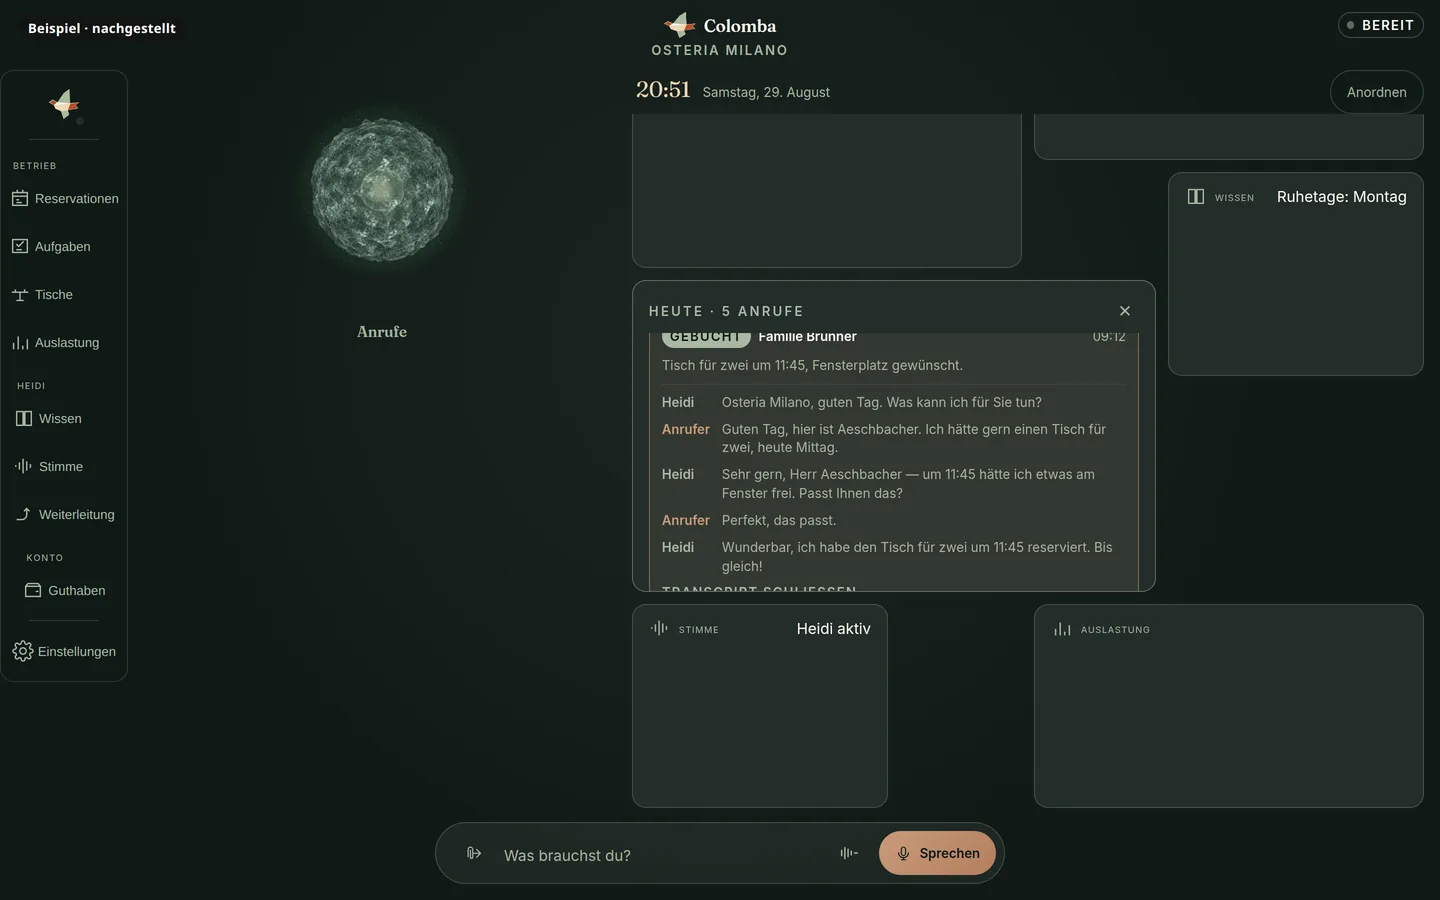
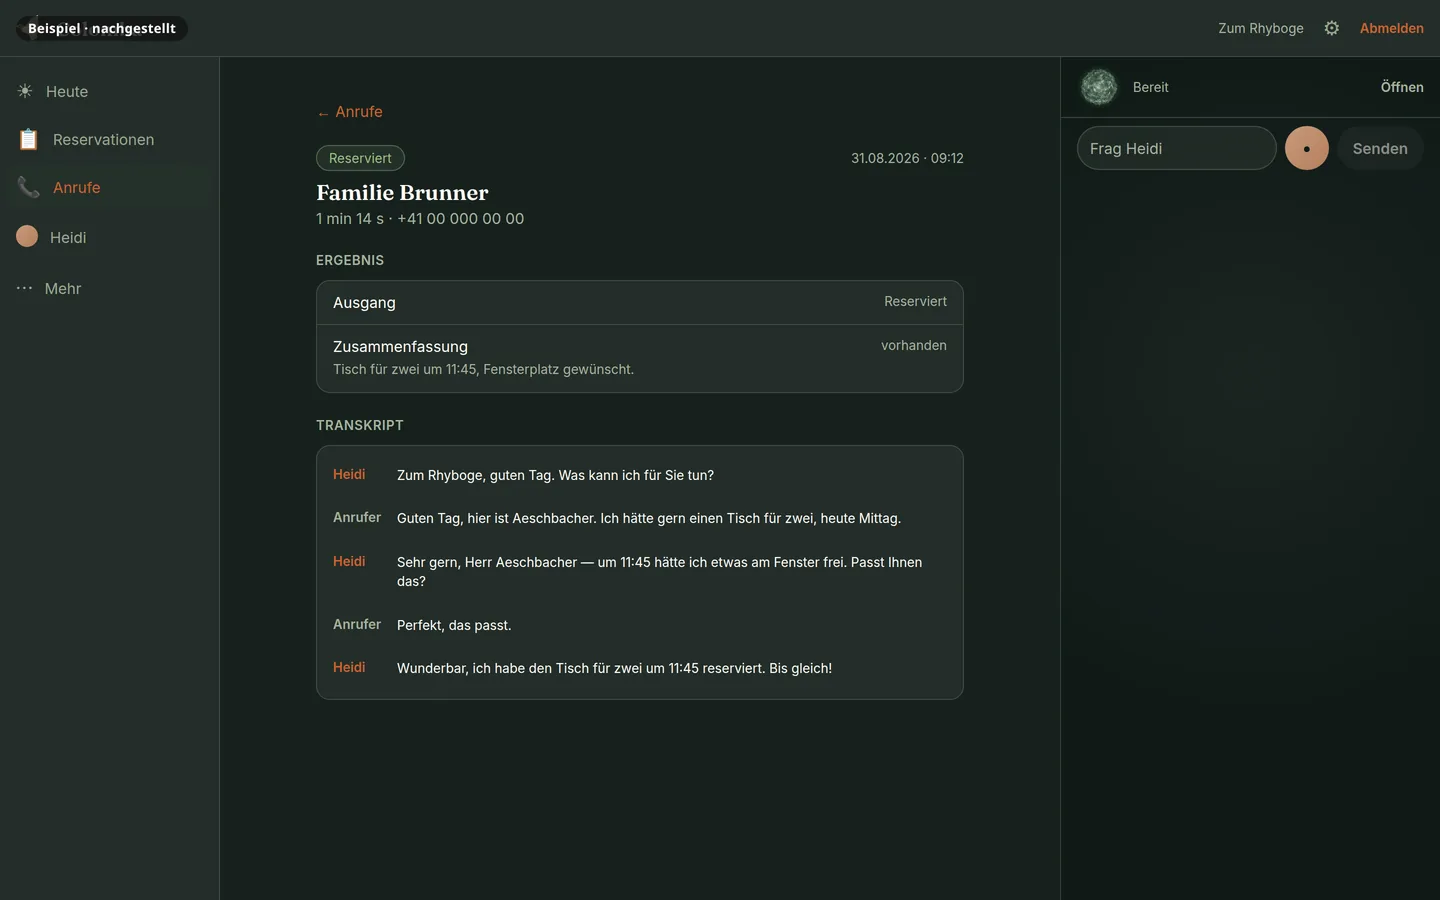
staging: WEBSITE-FLUG-V1.2 — Papier-Hero (01-aufbruch.jpg), Beispielbetrieb -> Zum Rhyboge, S1/S3/S4 neu aufgenommen, zwei Polierstellen
- Papier-Hero (Kapitel 01) vollbreit, Verlauf ins --forest (kein harter Rand), Karte
  unten links mit Notch; Orb + Status-Chip nach Kapitel 02 verschoben (kompakt).
- Beispielbetrieb-Name durchgängig auf 'Zum Rhyboge' (RHYBOGE-SWISS-RENAME-1,
  agent/DECISIONS.md 2026-08-26) — index.html + qa/design/web-marketing-1 Fixtures.
- S1 (Heute), S3 (Anrufe/Transkript) neu aufgenommen gegen den AKTUELLEN apps/web-Stand
  (die alte Rig zielte auf eine inzwischen entfernte /voice-Orb-Seite). S4 'Woche' hat
  im aktuellen Build kein Gegenstück mehr (BuchungenPage.tsx hat nur einen Tag-Filter,
  keine Woche) -> ersetzt durch S4 'Buchungen' (die vierte, bislang unbebilderte
  Rail-Tab-Ansicht aus derselben Kopie).
- Polierstellen: Tiefen-Band-Kanten jetzt Verlauf (~80px) statt harter Naht;
  .call-shot 380px -> 460px.
- Fusszeile: 'Bildwelt teilweise KI-generiert' aktiv.

Kein Live-Deploy, kein ARM-Bypass. datenschutz.html/impressum.html nicht angefasst.

diff --git a/index.html b/index.html
@@ -147,6 +147,39 @@ header.site {
 /* Die padding-Kurzform hat die seitliche Polsterung von .wrap überschrieben —
    auf 390 px klebte der Hero am linken Rand, während der Kopf eingerückt war.
    Vorbestehend, hier mitgenommen. */
+/* ------------------------------------------------------------ paper hero */
+/* Full-bleed opener (WEBSITE-FLUG-V1.2) — Romans Bild «Der Flug», Kapitel 01.
+   Kein harter Rand: das Bild löst sich über einen Verlauf in --forest auf, nie eine
+   Textur- oder Hard-Cut-Kante. Die Karte unten links liegt frei über dem Bild. */
+.paper-hero { position: relative; overflow: hidden; }
+.paper-hero picture, .paper-hero img {
+  display: block; width: 100%; height: clamp(320px, 62vh, 720px); object-fit: cover;
+}
+.paper-hero::after {
+  content: ""; position: absolute; left: 0; right: 0; bottom: 0; height: 40%;
+  background: linear-gradient(to bottom, rgba(28,43,38,0) 0%, var(--forest) 92%);
+  pointer-events: none;
+}
+.paper-hero-card {
+  --cut: 14px;
+  position: absolute; left: var(--pad-x); bottom: clamp(20px, 4vh, 40px);
+  max-width: 420px; background: var(--forest-2); border: 1px solid var(--hairline);
+  padding: 20px 22px; z-index: 2;
+}
+.paper-hero-card .eyebrow { margin-bottom: 10px; }
+.paper-hero-card h2 {
+  font-family: var(--serif); font-weight: 600; font-size: clamp(1.3rem, 2.6vw, 1.7rem);
+  line-height: 1.25; letter-spacing: -.01em; margin: 0 0 10px; color: var(--cream);
+}
+.paper-hero-card p { margin: 0; color: var(--text); font-size: 15px; line-height: 1.55; }
+@media (max-width: 880px) {
+  .paper-hero picture, .paper-hero img { height: 46vh; min-height: 240px; }
+  .paper-hero-card {
+    position: static; max-width: none; margin: 0; border-top: none;
+  }
+  .paper-hero::after { display: none; }
+}
+
 .hero { padding: clamp(24px, 6vh, 72px) var(--pad-x) clamp(40px, 8vh, 96px); }
 .hero-grid {
   display: flex; flex-wrap: wrap; align-items: center;
@@ -196,6 +229,9 @@ h1 {
 
 /* orb stage */
 .hero-stage { flex: 1 1 340px; min-width: 260px; display: flex; flex-direction: column; align-items: center; gap: 18px; }
+/* Kapitel-02-Grösse — der Orb ist hier ein Akzent neben dem Gespräch, keine Hero-Bühne mehr. */
+.hero-stage--compact { flex: none; max-width: 180px; margin: 28px 0 0; gap: 10px; }
+.hero-stage--compact .stage-box { max-width: 150px; }
 .stage-box { position: relative; width: 100%; max-width: 420px; aspect-ratio: 1; }
 .ring { position: absolute; inset: 0; pointer-events: none; --r: calc(50% - 26px); }
 .ring .node {
@@ -226,7 +262,14 @@ h1 {
 
 /* -------------------------------------------------------------- sections */
 section.band { padding: clamp(48px, 9vh, 104px) 0; border-top: 1px solid var(--hairline); }
-section.band.deep { background: var(--forest-deep); }
+/* Weicher Verlauf statt harter Naht (WEBSITE-FLUG-V1.2, Polierstelle a): kein border-top mehr
+   auf den Tiefen-Bändern — die Kante ist der Verlauf selbst, ~80px an jedem Rand. */
+section.band.deep {
+  border-top: none;
+  background: linear-gradient(to bottom,
+    var(--forest) 0, var(--forest-deep) 80px,
+    var(--forest-deep) calc(100% - 80px), var(--forest) 100%);
+}
 h2 {
   font-family: var(--serif); font-weight: 600;
   font-size: clamp(1.7rem, 4vw, 2.5rem); line-height: 1.12; letter-spacing: -.02em;
@@ -245,8 +288,11 @@ h2 {
 .anruf-grid { display: flex; flex-wrap: wrap; gap: clamp(24px, 4vw, 40px); align-items: flex-start; margin: 36px 0 0; }
 .scene { max-width: 640px; margin: 0; flex: 1 1 460px; }
 .call-shot {
+  /* Polierstelle b: 380px -> ~460px, damit auf der Platte erkennbar ist, DASS es ein
+     Transkript ist. scene(460) + call-shot(460) + gap(<=40) = <=960px, passt locker in
+     --wrap: 1160px bei 1440 — kein Wechsel unter die Bubbles nötig. */
   --cut: 14px;
-  flex: 0 1 380px; min-width: 260px; max-width: 420px; margin: 0;
+  flex: 0 1 460px; min-width: 260px; max-width: 460px; margin: 0;
   background: var(--forest-2); border: 1px solid var(--hairline); padding: 10px;
 }
 .call-shot picture, .call-shot img { display: block; width: 100%; height: auto; aspect-ratio: 16 / 10; object-fit: cover; }
@@ -389,6 +435,7 @@ footer.site {
 .foot-links a { color: var(--sage); }
 .foot-links a:hover { color: var(--cream); }
 .madein { letter-spacing: .1em; text-transform: uppercase; font-weight: 700; font-size: 11px; }
+.ai-image-note { margin: 10px 0 0; font-size: 11.5px; color: var(--sage); opacity: .8; }
 
 /* -------------------------------------------------------------- legal */
 .legal { max-width: 680px; padding: clamp(32px, 6vh, 64px) 0; }
@@ -524,20 +571,25 @@ footer.site {
 <main id="main">
 
   <!-- ═══════════════════════════════════ HERO ═══════════════════════════ -->
-  <!-- HERO — WARTET AUF DAS ASSET (WEBSITE-FLUG-V1, 31.08.).
-       Der Papier-Öffner ist Romans Bild («Der Flug»: Papierberge, Tannen, Städtchen,
-       Taube mit Brief, gestrichelte Flugbahn). Es liegt heute NICHT im Baum —
-       `assets/flug/` existiert nicht —, also bleibt der Orb-Hero stehen und die
-       Kapitelstruktur trägt die Richtung allein.
+  <!-- PAPIER-HERO (WEBSITE-FLUG-V1.2, 31.08.) — Romans Bild «Der Flug» ist jetzt im Baum
+       (`assets/flug/01-aufbruch.jpg`). Vollbreite Szene, Karte unten links auf --forest-2
+       mit Notch (.cut). Der bisherige Hero-Text (Claim/Lead/CTA/Pilot-Karte) bleibt darunter
+       unverändert stehen; der Orb + Status-Chip sind aus dem Hero nach Kapitel 02 gewandert
+       (die Stimme am Ziel, nicht die Reise). Papier ist NIE durchgehender Hintergrund — der
+       Verlauf am unteren Bildrand ist der Wechsel Papier -> Forest. -->
+  <section class="paper-hero">
+    <picture>
+      <source type="image/webp" srcset="assets/flug/01-aufbruch.webp">
+      <img src="assets/flug/01-aufbruch.jpg" width="1792" height="1008" loading="eager"
+           alt="Papierberge, Tannen und ein Städtchen bei Nacht — eine Taube trägt einen Brief über eine gestrichelte Flugbahn (Illustration, Kapitel 01: Der Flug)">
+    </picture>
+    <div class="paper-hero-card cut">
+      <p class="eyebrow"><span class="ch">01</span> Der Flug · Basel</p>
+      <h2>Die Nachricht hebt ab.</h2>
+      <p>Der Anruf wird zur Taube. Heidi trägt den Tisch — nicht ein Formular.</p>
+    </div>
+  </section>
 
-       Wenn die Datei kommt: `assets/flug/` anlegen, und dieser Abschnitt wird zur
-       vollbreiten Papierszene mit EINER Karte auf --forest-2 darauf (Notch wie .cut):
-         Kicker  «01»  ·  Titel «Die Nachricht hebt ab.»
-         Lead    «Der Anruf wird zur Taube. Heidi trägt den Tisch — nicht ein Formular.»
-       Der Orb wandert dann aus dem Hero nach Kapitel 02 (die Stimme am Ziel, nicht die
-       Reise), und die Fusszeile bekommt «Bildwelt teilweise KI-generiert» — heute nicht,
-       weil kein KI-Bild im Baum liegt. Papier ist NIE durchgehender Hintergrund;
-       der Wechsel Papier -> Forest ist das Design. -->
   <section class="hero wrap">
     <div class="hero-grid">
       <div class="hero-copy">
@@ -567,19 +619,6 @@ footer.site {
           </div>
         </div>
       </div>
-
-      <div class="hero-stage" aria-label="Heidi, dargestellt als lebendige Lichtkugel">
-        <div class="stage-box">
-          <div class="ring" aria-hidden="true" id="ring"></div>
-          <div class="orb-mount" id="orb-mount">
-            <div class="ember" id="ember"></div>
-          </div>
-        </div>
-        <p class="status-chip cut" id="status-chip">
-          <span class="dot live" id="status-dot" aria-hidden="true"></span>
-          <span id="status-text">Heidi hört zu.</span>
-        </p>
-      </div>
     </div>
   </section>
 
@@ -596,6 +635,19 @@ footer.site {
     <h2 class="rv">So klingt ein Anruf bei Heidi.</h2>
     <p class="band-lead rv">Kein Videodreh, keine Behauptung — ein Gespräch, wie Heidi es führt. Nachgestellt, damit kein echter Gast darin vorkommt.</p>
 
+    <div class="hero-stage hero-stage--compact" aria-label="Heidi, dargestellt als lebendige Lichtkugel">
+      <div class="stage-box">
+        <div class="ring" aria-hidden="true" id="ring"></div>
+        <div class="orb-mount" id="orb-mount">
+          <div class="ember" id="ember"></div>
+        </div>
+      </div>
+      <p class="status-chip cut" id="status-chip">
+        <span class="dot live" id="status-dot" aria-hidden="true"></span>
+        <span id="status-text">Heidi hört zu.</span>
+      </p>
+    </div>
+
     <div class="anruf-grid">
       <div class="scene" id="scene">
         <span class="scene-tag cut">Beispiel · nachgestellt</span>
@@ -603,7 +655,7 @@ footer.site {
           <li class="bubble heidi" style="--i:0">
             <div class="cut">
               <span class="who">Heidi</span>
-              <p>Grüezi, hier ist Heidi, die KI-Assistentin von Osteria Milano. Womit darf ich Ihnen helfen?</p>
+              <p>Grüezi, hier ist Heidi, die KI-Assistentin von Zum Rhyboge. Womit darf ich Ihnen helfen?</p>
             </div>
           </li>
           <li class="bubble guest" style="--i:1">
@@ -629,7 +681,7 @@ footer.site {
           <li class="bubble sms" style="--i:5">
             <div class="sms-card cut">
               <span class="who">SMS an den Gast</span>
-              <p>Ihre Reservation bei Osteria Milano: heute, 19:00 Uhr, 4 Personen. Stornocode <span class="code">S-4172</span>.</p>
+              <p>Ihre Reservation bei Zum Rhyboge: heute, 19:00 Uhr, 4 Personen. Stornocode <span class="code">S-4172</span>.</p>
             </div>
           </li>
         </ol>
@@ -642,7 +694,7 @@ footer.site {
       <figure class="call-shot cut rv">
         <picture>
           <source type="image/webp" srcset="assets/app/s3-anrufe@1x.webp 1x, assets/app/s3-anrufe@2x.webp 2x">
-          <img src="assets/app/s3-anrufe@1x.webp" width="1440" height="900" loading="lazy" alt="App-Ansicht: Anrufe, Transkript aufgeklappt, Beispiel nachgestellt (Osteria Milano)">
+          <img src="assets/app/s3-anrufe@1x.webp" width="1440" height="900" loading="lazy" alt="App-Ansicht: Anrufe, Transkript aufgeklappt, Beispiel nachgestellt (Zum Rhyboge)">
         </picture>
         <figcaption class="eyebrow">So sieht der Wirt das Gespräch in der App</figcaption>
       </figure>
@@ -752,16 +804,16 @@ footer.site {
         <figure class="app-shot main cut">
           <picture>
             <source type="image/webp" srcset="assets/app/s1-reservationen@1x.webp 1x, assets/app/s1-reservationen@2x.webp 2x">
-            <img src="assets/app/s1-reservationen@1x.webp" width="1440" height="900" loading="lazy" alt="App-Ansicht: Heute, Reservationsliste (Osteria Milano)">
+            <img src="assets/app/s1-reservationen@1x.webp" width="1440" height="900" loading="lazy" alt="App-Ansicht: Heute, Reservationsliste (Zum Rhyboge)">
           </picture>
           <figcaption class="eyebrow">Heute · Reservationsliste</figcaption>
         </figure>
         <figure class="app-shot cut">
           <picture>
-            <source type="image/webp" srcset="assets/app/s4-woche@1x.webp 1x, assets/app/s4-woche@2x.webp 2x">
-            <img src="assets/app/s4-woche@1x.webp" width="1440" height="900" loading="lazy" alt="App-Ansicht: Woche, 28 Reservationen, nachgestellt (Osteria Milano)">
+            <source type="image/webp" srcset="assets/app/s4-buchungen@1x.webp 1x, assets/app/s4-buchungen@2x.webp 2x">
+            <img src="assets/app/s4-buchungen@1x.webp" width="1440" height="900" loading="lazy" alt="App-Ansicht: Buchungen, Reservationsliste, nachgestellt (Zum Rhyboge)">
           </picture>
-          <figcaption class="eyebrow">Woche · 28 Reservationen, nachgestellt</figcaption>
+          <figcaption class="eyebrow">Buchungen · Reservationsliste, nachgestellt</figcaption>
         </figure>
         <div class="rail cut">
           <p class="rail-title">Vier Ansichten, ein Tag</p>
@@ -941,6 +993,9 @@ footer.site {
       <a href="https://www.instagram.com/colombaswiss/" rel="me noopener">Instagram</a>
     </nav>
     <span class="madein">Made in Switzerland</span>
+  </div>
+  <div class="wrap">
+    <p class="ai-image-note">Bildwelt teilweise KI-generiert.</p>
   </div>
 </footer>
 
